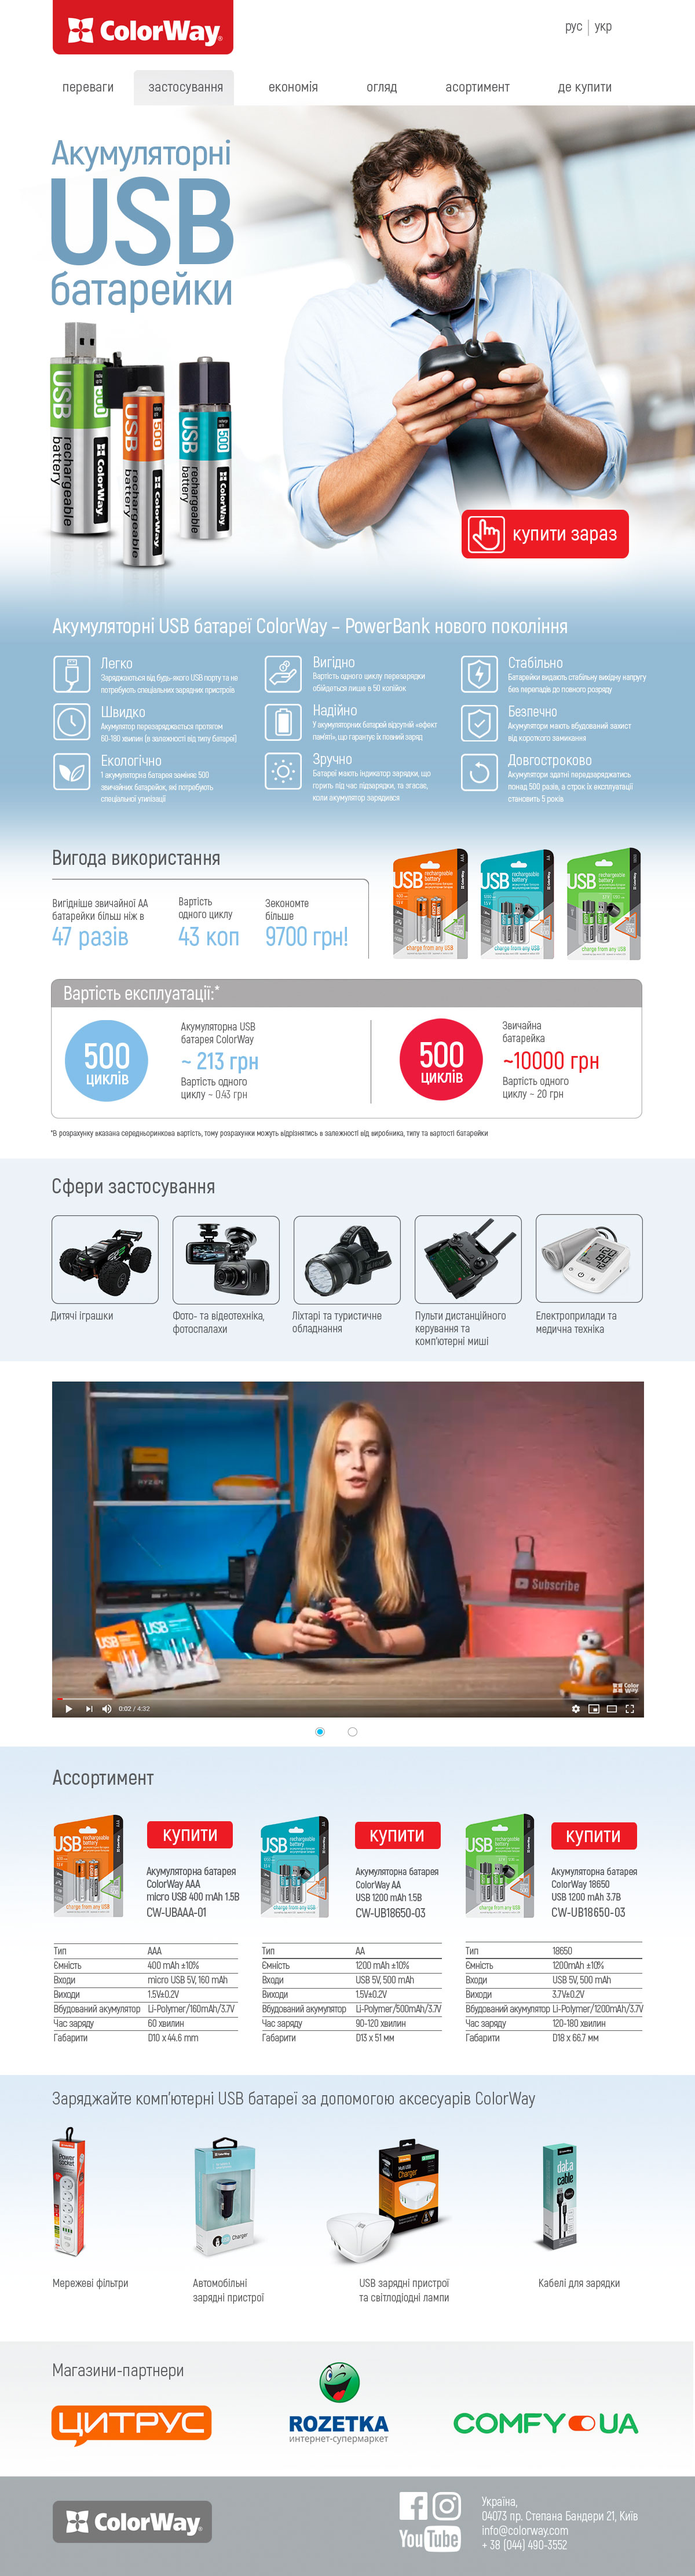
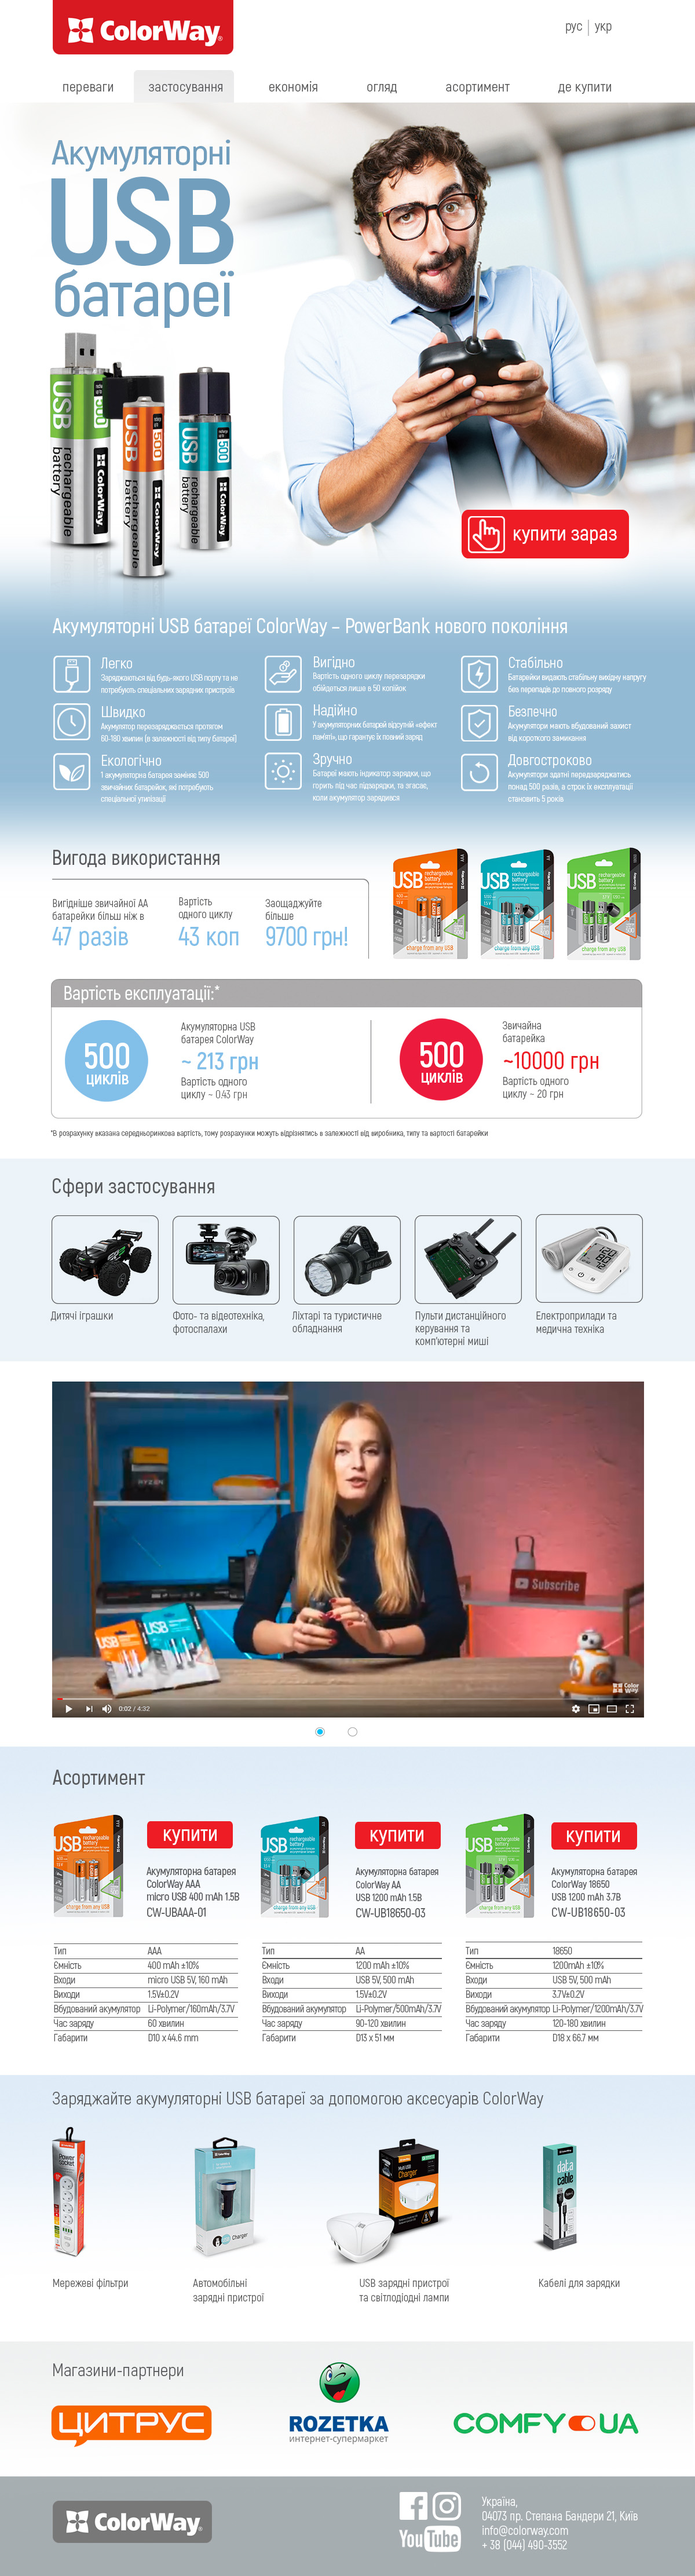
added responsive grid for menu

diff --git a/sass/blocks/main-nav.scss b/sass/blocks/main-nav.scss
@@ -14,7 +14,13 @@
       display: flex;
       flex-direction: row;
       justify-content: space-between;
+      margin-left: 20px;
+    }
 
+    @media (min-width: $screen-lg) {
+      padding-top: 20px;
+      margin-left: -40px;
+      margin-bottom: 10px;
     }
   }
 
@@ -29,6 +35,17 @@
 
     @media (min-width: $container-md) {
       padding: 0;
+    }
+
+    @media (min-width: $screen-md) {
+      background-color: transparent;
+      padding: 0;
+    }
+
+    @media (min-width: $screen-lg) {
+      background-color: transparent;
+      padding: 0;
+      margin: 0;
     }
   }
 
@@ -47,9 +64,14 @@
     //padding: 17px 68px;
 
     @media (min-width: $screen-md) {
-      font-size: 16px;
+      font-size: 15px;
+      text-transform: lowercase;
       color: $link-color;
       padding: 0;
+    }
+
+    @media (min-width: $screen-lg) {
+      font-size: 22px;
     }
 
     &:hover {
@@ -67,8 +89,8 @@
     display: block;
     position: absolute;
     content: "";
-    left: 250px;
-    top: -48px;
+    left: 239px;
+    top: -45px;
     width: 38px;
     height: 27px;
     font-size: 0;
@@ -178,9 +200,9 @@
     padding: 0;
   }
 
-  .main-nav {
-    margin-top: 28px;
-  }
+  //.main-nav {
+  //  margin-top: 28px;
+  //}
 
   .main-nav__item {
     width: 100%;

diff --git a/battery.html b/battery.html
@@ -19,16 +19,16 @@
             <div class="logo  logo--header">
                 <a href="#">
                     <picture class="logo__img">
-                        <source media="(min-width: 960px)" srcset="img/logo-desktop.png">
-                        <source media="(min-width: 660px)" srcset="img/logo-tablet.png">
+                        <source media="(min-width: 1020px)" srcset="img/logo-desktop.png">
+                        <source media="(min-width: 768px)" srcset="img/logo-tablet.png">
                         <img src="img/logo.png" alt="logo">
                     </picture>
                     <!--<img src="img/logo.png" alt="logo">-->
                 </a>
             </div>
             <div class="lang-list">
-                <a href="#" class="lang-list__link">рус</a>
                 <a href="#" class="lang-list__link  lang-list__link--active">укр</a>
+                <a href="#" class="lang-list__link">рус</a>
             </div>
         </div>
         <nav class="main-nav main-nav--closed main-nav--nojs">

diff --git a/sass/global.scss b/sass/global.scss
@@ -3,8 +3,8 @@ body {
   margin: 0;
   //min-width: 1000px;
   font-family: $font-family;
-  //background: url("/_design/battery_desktop.jpg") no-repeat center top;
-  //min-height: 4447px;
+  background: url("/_design/battery_mobile.jpg") no-repeat center top;
+  min-height: 4366px;
   //background-color: #2aab6d;
 }
 
@@ -13,16 +13,16 @@ img {
   height: auto;
 }
 //
-//@media (min-width: $tablet-widths) {
-//  body {
-//    //background: url("/_design/preview/pink-index-tablet.jpg") no-repeat center top;
-//    min-height: 3264px;
-//  }
-//}
-//
-//@media (min-width: $desktop-widths) {
-//  body {
-//    //background: url("/_design/preview/pink-index-desktop.jpg") no-repeat center top;
-//    min-height: 2056px;
-//  }
-//}
+@media (min-width: $screen-md) {
+  body {
+    background: url("/_design/battery_tablet.jpg") no-repeat center top;
+    min-height: 3088px;
+  }
+}
+
+@media (min-width: $screen-lg) {
+  body {
+    background: url("/_design/battery_desktop.jpg") no-repeat center top;
+    min-height: 4447px;
+  }
+}

diff --git a/sass/blocks/lang-list.scss b/sass/blocks/lang-list.scss
@@ -1,13 +1,35 @@
 .lang-list {
   display: flex;
   flex-direction: column;
-  margin-right: 35px;
+  margin-right: 60px;
+
+  @media (min-width: $screen-md) {
+    flex-direction: row;
+    justify-content: space-between;
+    margin-right: 75px;
+    margin-top: -10px;
+  }
+
+  @media (min-width: $screen-lg) {
+    margin: 0;
+    margin-right: 50px;
+  }
 
   &__link {
+    font-family: 'Arial', sans-serif;
     text-decoration: none;
-    font-size: 18px;
+    font-size: 14px;
     text-transform: uppercase;
     color: $link-color;
+
+    @media (min-width: $screen-md) {
+      text-transform: lowercase;
+      font-size: 16px;
+    }
+
+    @media (min-width: $screen-lg) {
+      font-size: 23px;
+    }
   }
 
   &__link--active {

diff --git a/sass/variables.scss b/sass/variables.scss
@@ -70,14 +70,14 @@ $color-gh:                    #24292e;
 $screen-xs:                   320px;
 $screen-sm:                   480px;
 $screen-md:                   768px;
-$screen-lg:                   992px;
+$screen-lg:                   1020px;
 $screen-xl:                   1200px;
 $screen-xxl:                  1800px;
 
 $container-xs:                $screen-xs - 40;
 $container-sm:                $screen-sm - 40;
 $container-md:                $screen-md - 40;
-$container-lg:                $screen-lg - 40;
+$container-lg:                $screen-lg - 30;
 $container-xl:                $screen-xl - 40;
 $container-xxl:               $screen-xxl - 40;
 

diff --git a/sass/blocks/page-header.scss b/sass/blocks/page-header.scss
@@ -5,11 +5,24 @@
     @include container;
     outline: 1px dotted green;
     min-height: 63px;
+
+    @media (min-width: $screen-lg) {
+      display: flex;
+      flex-direction: column;
+      min-height: 170px;
+      justify-content: space-around;
+    }
   }
 
   &__wrapper {
     display: flex;
     justify-content: space-between;
-    align-items: center;
+    align-items: flex-end;
+
+    @media (min-width: $screen-md) {
+      align-items: center;
+    }
   }
+
+
 }

diff --git a/sass/blocks/logo.scss b/sass/blocks/logo.scss
@@ -1,0 +1,13 @@
+.logo {
+  &--header {
+    @media(min-width: $container-md) {
+      margin-left: 35px;
+    }
+
+    @media(min-width: $screen-lg) {
+      margin: 0;
+      margin-left: -20px;
+    }
+
+  }
+}

diff --git a/sass/style.scss b/sass/style.scss
@@ -4,6 +4,7 @@
 @import "mixins.scss";
 @import "global.scss";
 @import "blocks/promo.scss";
+@import "blocks/logo.scss";
 @import "blocks/card.scss";
 @import "blocks/cards.scss";
 @import "blocks/btn.scss";
